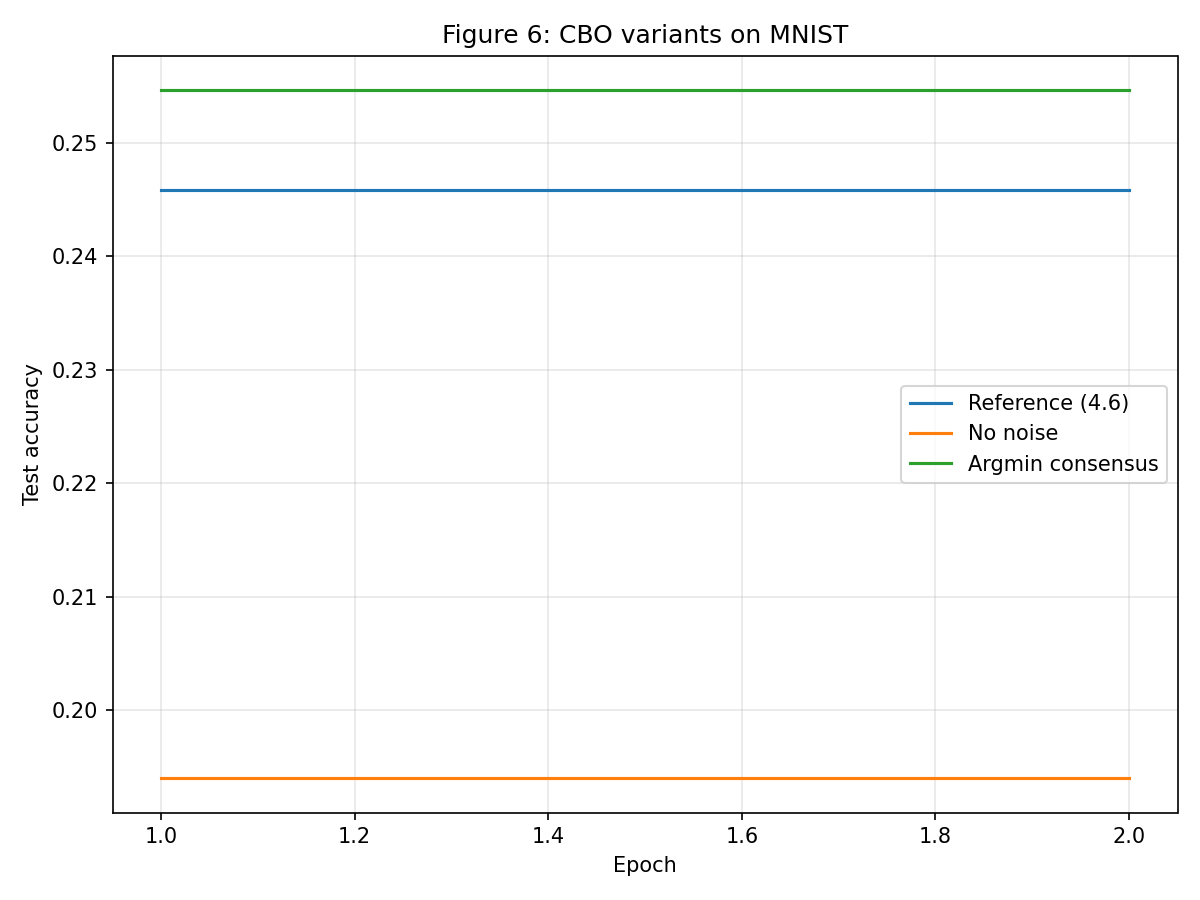
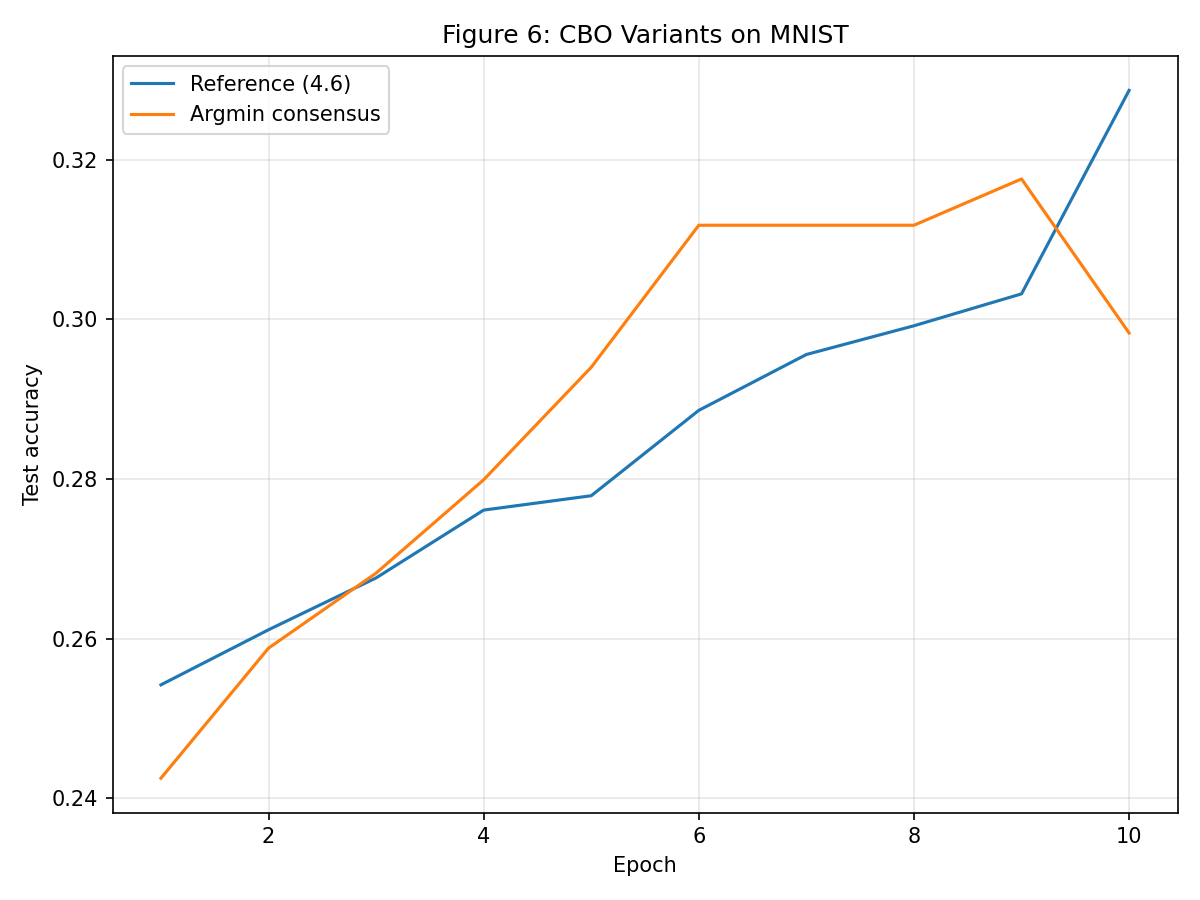
remark 2.3 Carrillo

diff --git a/MNIST/var_argmin.py b/MNIST/var_argmin.py
@@ -4,13 +4,14 @@ sys.path.append(str(Path(__file__).resolve().parent.parent))
 
 import numpy as np
 import torch
+from tqdm import tqdm
 
 from bc_algorithms import ackley, consensus_point, cbo
 from mnist_data import N_TRAIN, load_mnist
 from mnist_model import mnist_forward, D_PARAMS, M_BATCH, make_mnist_objective
 
 
-def comp_diff_random_batch_argmin(f, d, domain=(-32,32), n_particles=100, lam=1.0, sigma=np.sqrt(0.1), dt=0.1, max_iters=500, tol=0.0, M=10, m=50, X_test=None, y_test=None, seed=0):
+def comp_diff_random_batch_argmin(f, d, n_particles=100, lam=1.0, sigma=np.sqrt(0.1), dt=0.1, max_iters=500, tol=0.0, M=10, m=50, X_test=None, y_test=None, seed=0):
     """ Same as comp_diff_random_batch, but x̄* is the argmin of the batch (2.5)
         instead of the softmax-weighted average (2.3) -> no 'alpha' needed here """
 
@@ -54,13 +55,19 @@ def comp_diff_random_batch_argmin(f, d, domain=(-32,32), n_particles=100, lam=1.
         # indicator function
         return (preds == true_labels).float().mean().item() # (4.5): test accuracy function
 
-    for i in range(max_iters):
+    stale_count = 0
+    patience = epoch_step_size
+    # for i in range(max_iters):
+    # i=0
+    # with tqdm() as pbar:
+        # while v>=tol:
+    for i in tqdm(range(10*epoch_step_size)):
         # Particle history
         # EULER-MARUYAMA POS UPDATE
         diff = x - c # X̄ - consensus pt
         """ WE NO LONGER NEED TO COMPUTE EUCLIDEAN DIST
             with dist we mult every dW by the same scalar (all d directions scaled identically)
-            BUT NOW each col k col k of hte update is diff[:,k] * dW[:,k]
+            BUT NOW each col k col k of the update is diff[:,k] * dW[:,k]
             scaled by that dim's own dist to consensus """
         # dist = np.linalg.norm(diff, axis=1, keepdims=True) # Euclidean dist |x-c|
         noise = rng.normal(size=(n_particles, d))
@@ -77,13 +84,24 @@ def comp_diff_random_batch_argmin(f, d, domain=(-32,32), n_particles=100, lam=1.
         obj_val_hist.append(f_vals.min())
 
         # Best obj val history
-        running_best = min(running_best, f_vals.min())
+        # running_best = min(running_best, f_vals.min())
+        if f_vals.min() < running_best:
+            running_best = f_vals.min()
+            stale_count = 0
+        else:
+            stale_count +=1
         best_val_hist.append(running_best)
 
         # Variance history
         mean = x.mean(axis=0) # expectation: average all part points
         v = 0.5*np.mean(np.sum((x-mean)**2, axis=1)) # variance
         variance_hist.append(v)
+
+        # RESTART: independent Brownian kick when x̄* stalls (paper Remark 2.3 / Alg 2.1 step 4)
+        # NOT scaled by diff -- this is what can revive a collapsed swarm
+        if stale_count >= patience:
+            x = x + sigma*np.sqrt(dt)*rng.normal(size=(n_particles, d))
+            stale_count = 0
 
         # MINI-BATCH CONSENSUS POINT
         # draw M random particle indices without replacement
@@ -102,7 +120,9 @@ def comp_diff_random_batch_argmin(f, d, domain=(-32,32), n_particles=100, lam=1.
             x_star = torch.from_numpy(c).float()
             acc = test_accuracy(x_star, X_test, y_test)
             test_accuracy_hist.append(acc)
-
+        # i+=1
+        # pbar.set_postfix(v=v)
+        # pbar.update(1)
         # Check how spread out the particles are (relative to consensus pt)
         if v < tol:
             break

diff --git a/MNIST/var_1and3_MNIST.py b/MNIST/var_1and3_MNIST.py
@@ -4,6 +4,7 @@ sys.path.append(str(Path(__file__).resolve().parent.parent))
 
 import numpy as np
 import torch
+from tqdm import tqdm
 
 from bc_algorithms import ackley, consensus_point, cbo
 from mnist_data import N_TRAIN, load_mnist
@@ -12,7 +13,7 @@ from mnist_model import mnist_forward, D_PARAMS, M_BATCH, make_mnist_objective
 # constants in 4.6 for reference: N=100, M=10, n=10^4, m=50, lr=0.1, sigma=sqrt(0.1), lambda=1
 
 # Variant 1 in Totzeck CBO: Component-wise diffusion + Random mini batches
-def comp_diff_random_batch(f, d, domain=(-32,32), n_particles=100, lam=1.0, sigma=np.sqrt(0.1), alpha=30.0, dt=0.1, max_iters=500, tol=0.0, M=10, m=50, X_test=None, y_test=None, seed=0): # adjust  max_iters based on how quickly accuracy plateaus
+def comp_diff_random_batch(f, d, n_particles=100, lam=1.0, sigma=np.sqrt(0.1), alpha=30.0, dt=0.1, max_iters=500, tol=0.0, M=10, m=50, X_test=None, y_test=None, seed=0): # adjust  max_iters based on how quickly accuracy plateaus
     """ Same drift and diffusion as the base CBO scheme,
         BUT the consensus point is computed from random mini-batch of M particles
         rather than all N particles each iteration """
@@ -58,7 +59,14 @@ def comp_diff_random_batch(f, d, domain=(-32,32), n_particles=100, lam=1.0, sigm
         # indicator function
         return (preds == true_labels).float().mean().item() # (4.5): test accuracy function
 
-    for i in range(max_iters):
+    stale_count = 0
+    patience = epoch_step_size
+    # for i in range(max_iters):
+    # i=0
+    # with tqdm() as pbar:
+        # while v >= tol:
+        # while i < 100*epoch_step_size:
+    for i in tqdm(range(10*epoch_step_size)):
         # Particle history
         # EULER-MARUYAMA POS UPDATE
         diff = x - c # X̄ - consensus pt
@@ -81,13 +89,24 @@ def comp_diff_random_batch(f, d, domain=(-32,32), n_particles=100, lam=1.0, sigm
         obj_val_hist.append(f_vals.min())
 
         # Best obj val history
-        running_best = min(running_best, f_vals.min())
+        # running_best = min(running_best, f_vals.min())
+        if f_vals.min() < running_best:
+            running_best = f_vals.min()
+            stale_count = 0
+        else:
+            stale_count +=1
         best_val_hist.append(running_best)
 
         # Variance history
         mean = x.mean(axis=0) # expectation: average all part points
         v = 0.5*np.mean(np.sum((x-mean)**2, axis=1)) # variance
         variance_hist.append(v)
+
+        # RESTART: independent Brownian kick when x̄* stalls (paper Remark 2.3 / Alg 2.1 step 4)
+        # NOT scaled by diff -- this is what can revive a collapsed swarm
+        if stale_count >= patience:
+            x = x + sigma*np.sqrt(dt)*rng.normal(size=(n_particles, d))
+            stale_count = 0
 
         # MINI-BATCH CONSENSUS POINT
         # draw M random particle indices without replacement
@@ -104,7 +123,9 @@ def comp_diff_random_batch(f, d, domain=(-32,32), n_particles=100, lam=1.0, sigm
             x_star = torch.from_numpy(c).float()
             acc = test_accuracy(x_star, X_test, y_test)
             test_accuracy_hist.append(acc)
-
+        # i+=1
+        # pbar.set_postfix(v=v)
+        # pbar.update(1)
         # Check how spread out the particles are (relative to consensus pt)
         if v < tol:
             break

diff --git a/MNIST/mnist_model.py b/MNIST/mnist_model.py
@@ -2,7 +2,7 @@ import torch
 from mnist_data import load_mnist
 
 # constants
-D_IMG = 784 # flattened 28x28 pixel input dimension
+D_IMG = 728 # flattened 26x28 pixel input dimension (top/bottom row cropped, matching paper section 4.3)
 N_CLASSES = 10 # digits 0-9
 D_PARAMS = N_CLASSES * D_IMG + N_CLASSES # size of one particle's flattened (theta, B): 7850
 M_BATCH = 50 # m in (4.6): training data mini batch size
@@ -14,11 +14,11 @@ def unflatten_params(x):
     theta = x[:, :N_CLASSES * D_IMG].reshape(n_particles, N_CLASSES, D_IMG)
     b = x[:, N_CLASSES * D_IMG:] # remaining 10 entries of 7850
 
-    # returns theta: (N, 10, 784) = (particles, classes, pixels), b: (N, 10) = (particles, classes)
+    # returns theta: (N, 10, 728) = (particles, classes, pixels), b: (N, 10) = (particles, classes)
     return theta, b
 
 # run neural network
-def mnist_forward(x, X_batch): # x: (N, D_PARAMS) particle params; X_batch: (m, 784) flattened images
+def mnist_forward(x, X_batch): # x: (N, D_PARAMS) particle params; X_batch: (m, 728) flattened images
     theta, b = unflatten_params(x)
 
     # f(x,x̂) in 4.3 --> but batched over particles and images simultaneously
@@ -31,7 +31,7 @@ def mnist_forward(x, X_batch): # x: (N, D_PARAMS) particle params; X_batch: (m, 
 
 # score how wrong each particle's network is
 def mnist_loss(x, X_batch, y_batch): # 4.4: L(x), ℓ(f,y)
-    # x: (N, D_PARAMS); X_batch: (m, 784); y_batch: (m, 10)
+    # x: (N, D_PARAMS); X_batch: (m, 728); y_batch: (m, 10)
 
     probs = mnist_forward(x, X_batch) # (N, m, 10)
     probs = probs.clamp(min=1e-12) # avoid log(0)
@@ -57,7 +57,7 @@ def make_mnist_objective(X_train, y_train, m, seed=0):
             losses = train_loss_fn(x_t, batch_idx)
         return losses.numpy()
 
-    return f # returne explicit data batch instead of torch
+    return f # return explicit data batch instead of torch
 
 if __name__ == "__main__":
 

diff --git a/MNIST/mnist_data.py b/MNIST/mnist_data.py
@@ -7,7 +7,7 @@ from torchvision import datasets
 N_TRAIN = 10_000
 
 def load_mnist(n_train=N_TRAIN, seed=0, root="./mnist_data"):
-    """ X_* : (n, 784) float tensor, pixel values scaled to [0,1]
+    """ X_* : (n, 728) float tensor, pixel values scaled to [0,1]
         y_* : (n, 10) one-hot float tensor
         Downloads MNIST via torchvision on first call (cached under `root` after that). """
     train_raw = datasets.MNIST(root=root, train=True, download=True)
@@ -17,7 +17,8 @@ def load_mnist(n_train=N_TRAIN, seed=0, root="./mnist_data"):
         rng = torch.Generator().manual_seed(seed)
         idx = torch.randperm(len(raw), generator=rng)[:n] # random subset of size n of all indices (paper subsamples n=10^4 out of 60k train images)
 
-        X = raw.data[idx].float().reshape(len(idx), -1) / 255.0 # (n, 28*28) scaled to [0,1]
+        imgs = raw.data[idx, 1:-1, :].float() / 255.0 # drop first/last pixel row: 28x28 -> 26x28, matching the paper's 728-dim input (section 4.3)
+        X = imgs.reshape(len(idx), -1) # (n, 26*28=728)
         y = torch.nn.functional.one_hot(raw.targets[idx], num_classes=10).float() # (n, 10)
         # return flattened images and one-hot labels
         return X, y
@@ -30,7 +31,7 @@ def load_mnist(n_train=N_TRAIN, seed=0, root="./mnist_data"):
 
 if __name__ == "__main__":
     X_train, y_train, X_test, y_test = load_mnist()
-    # confirm: X --> ([10000, 784]) Y --> ([10000, 10])
+    # confirm: X --> ([10000, 728]) Y --> ([10000, 10])
     # pixel value in [0,1]
     # digit distribution is balanced (can see it's generally 900-1200 per class)
     print(f"X_train: {X_train.shape}, y_train: {y_train.shape}")

diff --git a/MNIST/figure_6.py b/MNIST/figure_6.py
@@ -28,9 +28,9 @@ def main():
     f_ref = make_mnist_objective(X_train, y_train, m=M_BATCH, seed=0)
     *_, ref_acc_hist = comp_diff_random_batch(f_ref, d=D_PARAMS, tol=0.0, m=M_BATCH, X_test=X_test, y_test=y_test, seed=0)
 
-    # no noise variant: samge model but with sigma=0
-    f_nonoise = make_mnist_objective(X_train, y_train, m=M_BATCH, seed=0)
-    *_, nonoise_acc_hist = comp_diff_random_batch(f_nonoise, d=D_PARAMS, sigma=0.0, tol=0.0, m=M_BATCH, X_test=X_test, y_test=y_test, seed=0)
+    # # no noise variant: samge model but with sigma=0
+    # f_nonoise = make_mnist_objective(X_train, y_train, m=M_BATCH, seed=0)
+    # *_, nonoise_acc_hist = comp_diff_random_batch(f_nonoise, d=D_PARAMS, sigma=0.0, tol=0.0, m=M_BATCH, X_test=X_test, y_test=y_test, seed=0)
 
     # argmin variant: x̄* = argmin over the particle batch, instead of softmax average
     f_argmin = make_mnist_objective(X_train, y_train, m=M_BATCH, seed=0)
@@ -38,14 +38,14 @@ def main():
 
     fig, ax = plt.subplots(figsize=(8,6))
     for label, acc_hist in [("Reference (4.6)", ref_acc_hist),
-                            ("No noise", nonoise_acc_hist),
+                            # ("No noise", nonoise_acc_hist),
                             ("Argmin consensus", argmin_acc_hist)]:
         epochs = np.arange(1, len(acc_hist) + 1)
         ax.plot(epochs, acc_hist, label=label)
 
     ax.set_xlabel("Epoch"); ax.set_ylabel("Test accuracy")
     # ax.set_xlim(0, 100); ax.set_ylim(0, 1)
-    ax.set_title("Figure 6: CBO variants on MNIST")
+    ax.set_title("Figure 6: CBO Variants on MNIST")
 
     ax.legend()
     ax.grid(alpha=0.3)
